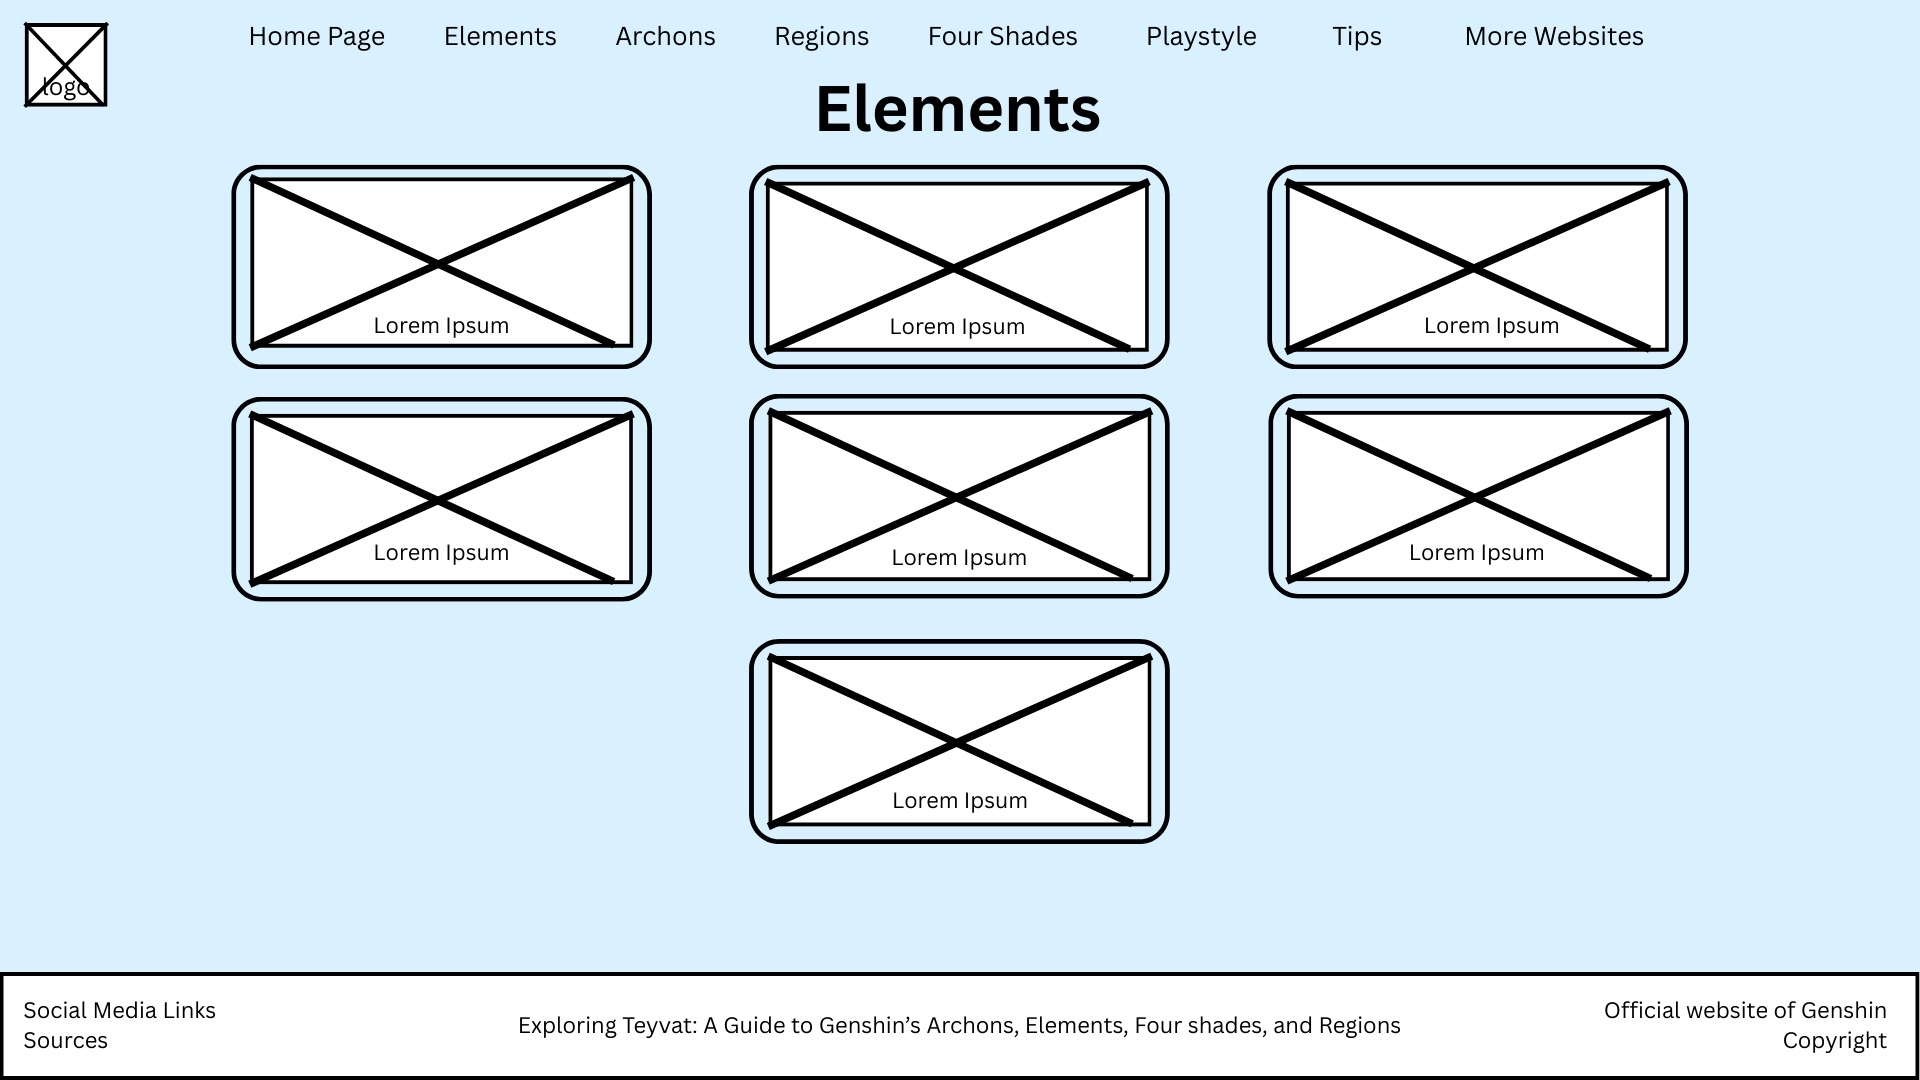
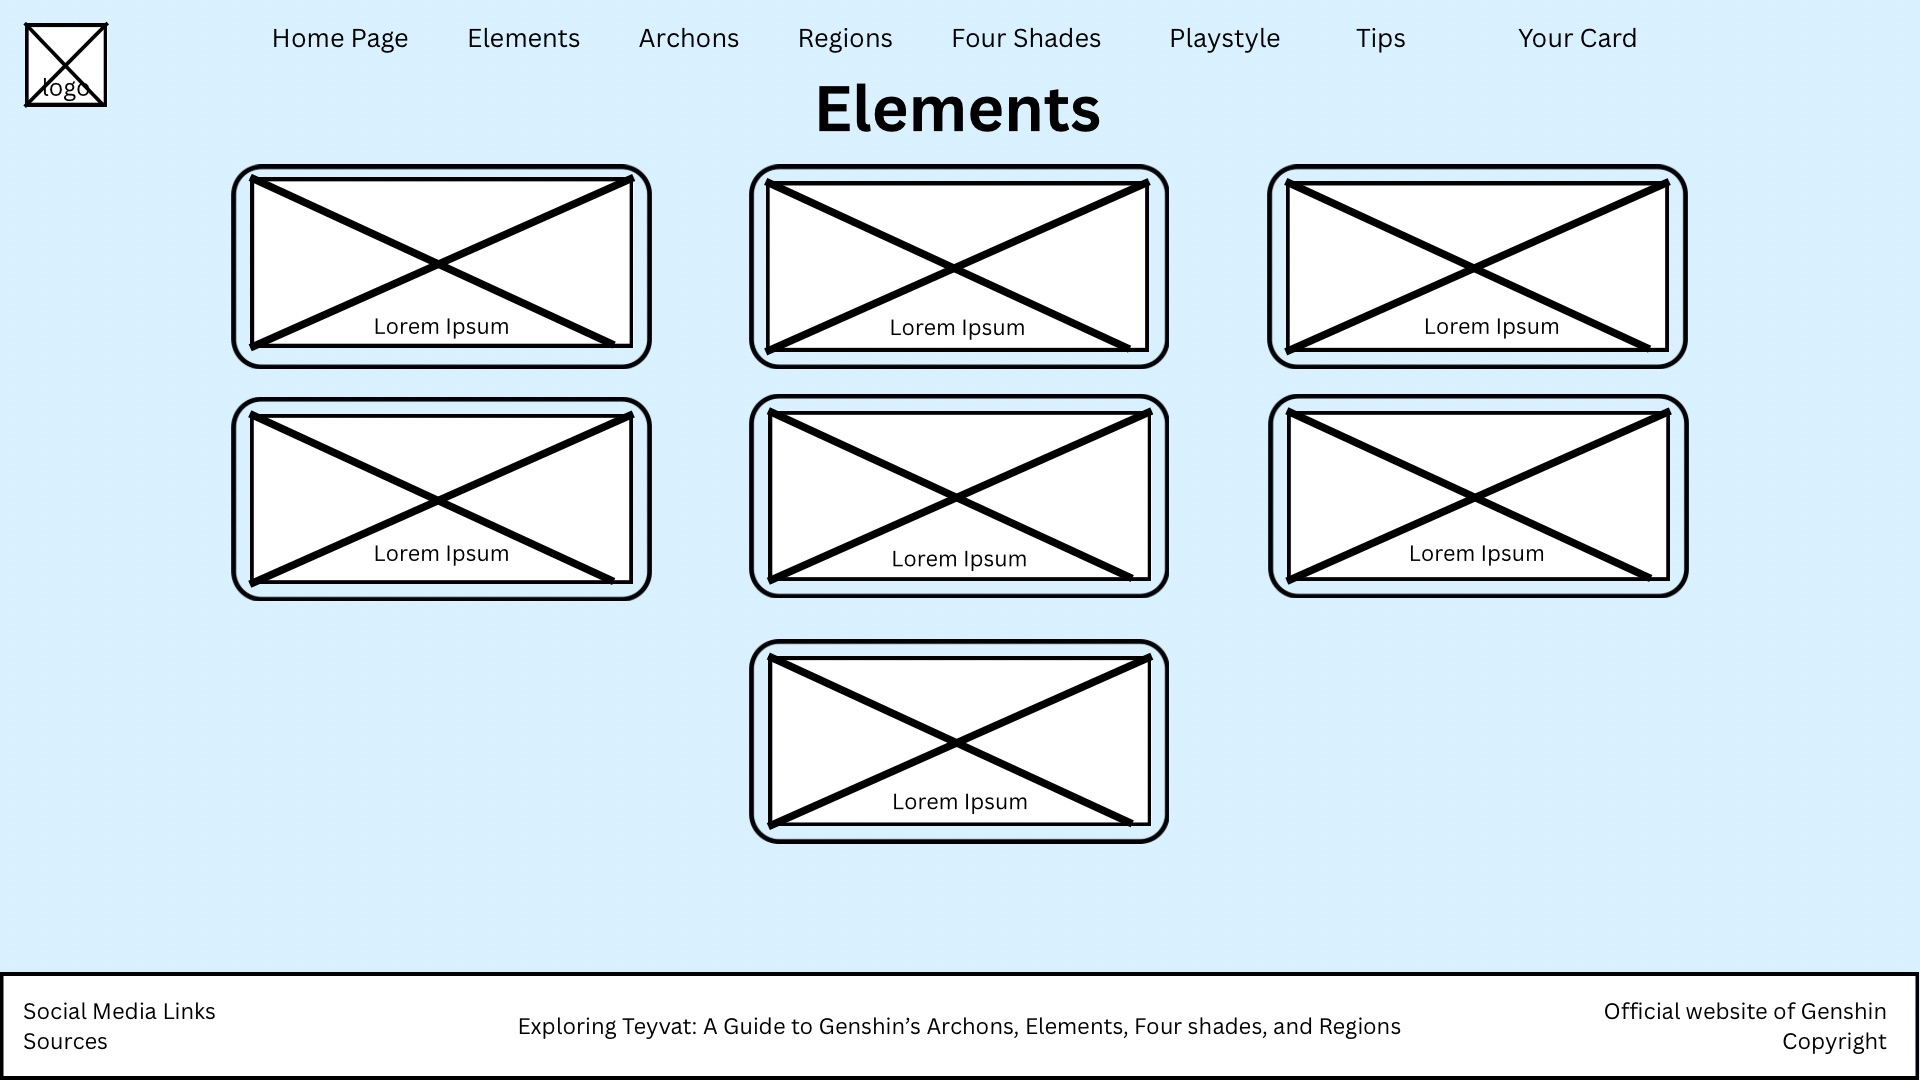
upd

diff --git a/README.md b/README.md
@@ -47,30 +47,31 @@
 - Visuals such as images, symbols, and more will be used
 
 ### VI. Page 6. - Playstyle
-#### This page talks about the playstyle of the game, how the controls works—generally just making the players be more familiar about how the game works. This page provides:
-- A GIF showing an example of one of the playstyle (ex. the character gliding down)
-- Descriptions of the playstyle
+#### This page talks about the playstyle of the game, while also asking some information (from the game) from the user. This page provides:
+- An HTML form that asks about some info from the user like what is there traveler's name, their AR level, favorite region, and etc.
+- A submit and reset button for when the user submits the info they added to the website or restart everything they chose/typed
 - The implementation of the HTML form
-- the HTML will disappear after the user chooses, but when the user comes back to this page from another page, the question will reappear again just in case the user chooses another option.
+- More information and description about the game—about its playstyle specifically
 
 ### VII. Page 7 - Tips
 #### This page provides gameplay tips for the user to help them get better at the game. This page provides:
-- An image that came from the game
-- Content/Descriptions on how to get better, the content also depends wether the user picks beginner or advanced from the HTML form from the previous page
+- A moving image (or a GIF) that came from the game
+- Content/Descriptions/Tips on how to get better, the content also depends from the data collected from the user
+- for example, if the user chose 'Raiden Shogun' as the archon they like the most, this page would provide more descriptions about her and some websites to help the user to understand the lore more
 
-### VII. Page 8 - More Websites
-#### This page shows more websites to help the user improve more on the game. This page provides:
-- Descriptions of what the websites includes and how it would help them
-- Buttons that would redirect the users to the website
-- The content depends on wether the user picks beginner or advanced from the Playstyle Page
-- The amount of content displayed depends on the choice of the user, this is just an example
+### VII. Page 8 - Traveler's Card
+#### This page shows a themed card/profile of the user/traveler from the data collected from page 6. This isn't that improtant, it really just adds more design and pop to our website while also showing the user's cool and diverse theme from their choices. This page provides:
+- A themed background and images depending on the user's favorite region, prefered element and archon.
+- A textlink where the user will be redirected to Genshin's official website where news and announcements are uploaded there
+- a floating/spinning image or gif of the element that the user has picked
 
 ### Purpose and Use of the HTML Form:
-### The form will ask the question "Are you a beginner or an advanced player?” and allow users to select between two options: Beginner or Advanced using buttons. The purpose of this form is to personalize the website’s content based on the user’s familiarity with the game. By identifying whether the user is a beginner or an advanced player, the website can display information that is more appropriate and relevant to the user’s level of experience. This prevents users from being overwhelmed with content that may not match their skill level.
+### The HTML form is designed to collect user information for the Teyvat Explorer Profile section of our Genshin Impact–themed website. Its main purpose is to allow users to create a personalized explorer profile based on their preferences in the game, such as their favorite region, element, and archon. The form is used as an interactive input for the website where users provide their details. Once submitted, the information is saved on the user’s computer and reused on other webpages of the website to display customized content. This makes the website more engaging and personalized, as users can see information that reflects their own choices and interests.
 #### This feature will make use of JavaScript to:
-- JavaScript will be used to handle the form submission, store the user’s selected experience level, and retrieve the saved data on other webpages
-- On other webpages of the website, JavaScript will retrieve the stored experience level and use conditional statements to determine what content should be displayed. For example, beginner users will see simplified explanations and basic gameplay information, while advanced users will be shown more detailed and optimized content.
-- JavaScript will also be used to dynamically update page text and sections based on the stored data.
+- Handle user input and events (e.g., clicks, form submissions)
+- Validate user's inputs before processing
+- On other webpages of the website, JavaScript will retrieve the stored user data and use conditional statements to determine what content should be displayed
+- JavaScript will also be used to dynamically update page text and sections based on the stored data
 ******
 ### Wireframes:
 #### Page 1 (Home page):
@@ -97,8 +98,11 @@
 #### Page 6 (Playstyle)
 #### ![Playstyle page](images/page6.png)
 
+#### Page 6 Expanded (Playstyle)
+#### ![Playstyle page](images/page6e.png)
+
 #### Page 7 (Gameplay Tips)
 #### ![Gameplay Tips page](images/page7.png)
 
-#### Page 8 (More Websites)
+#### Page 8 (Traveler's Card)
 #### ![More websites to helppage](images/page8.png)
